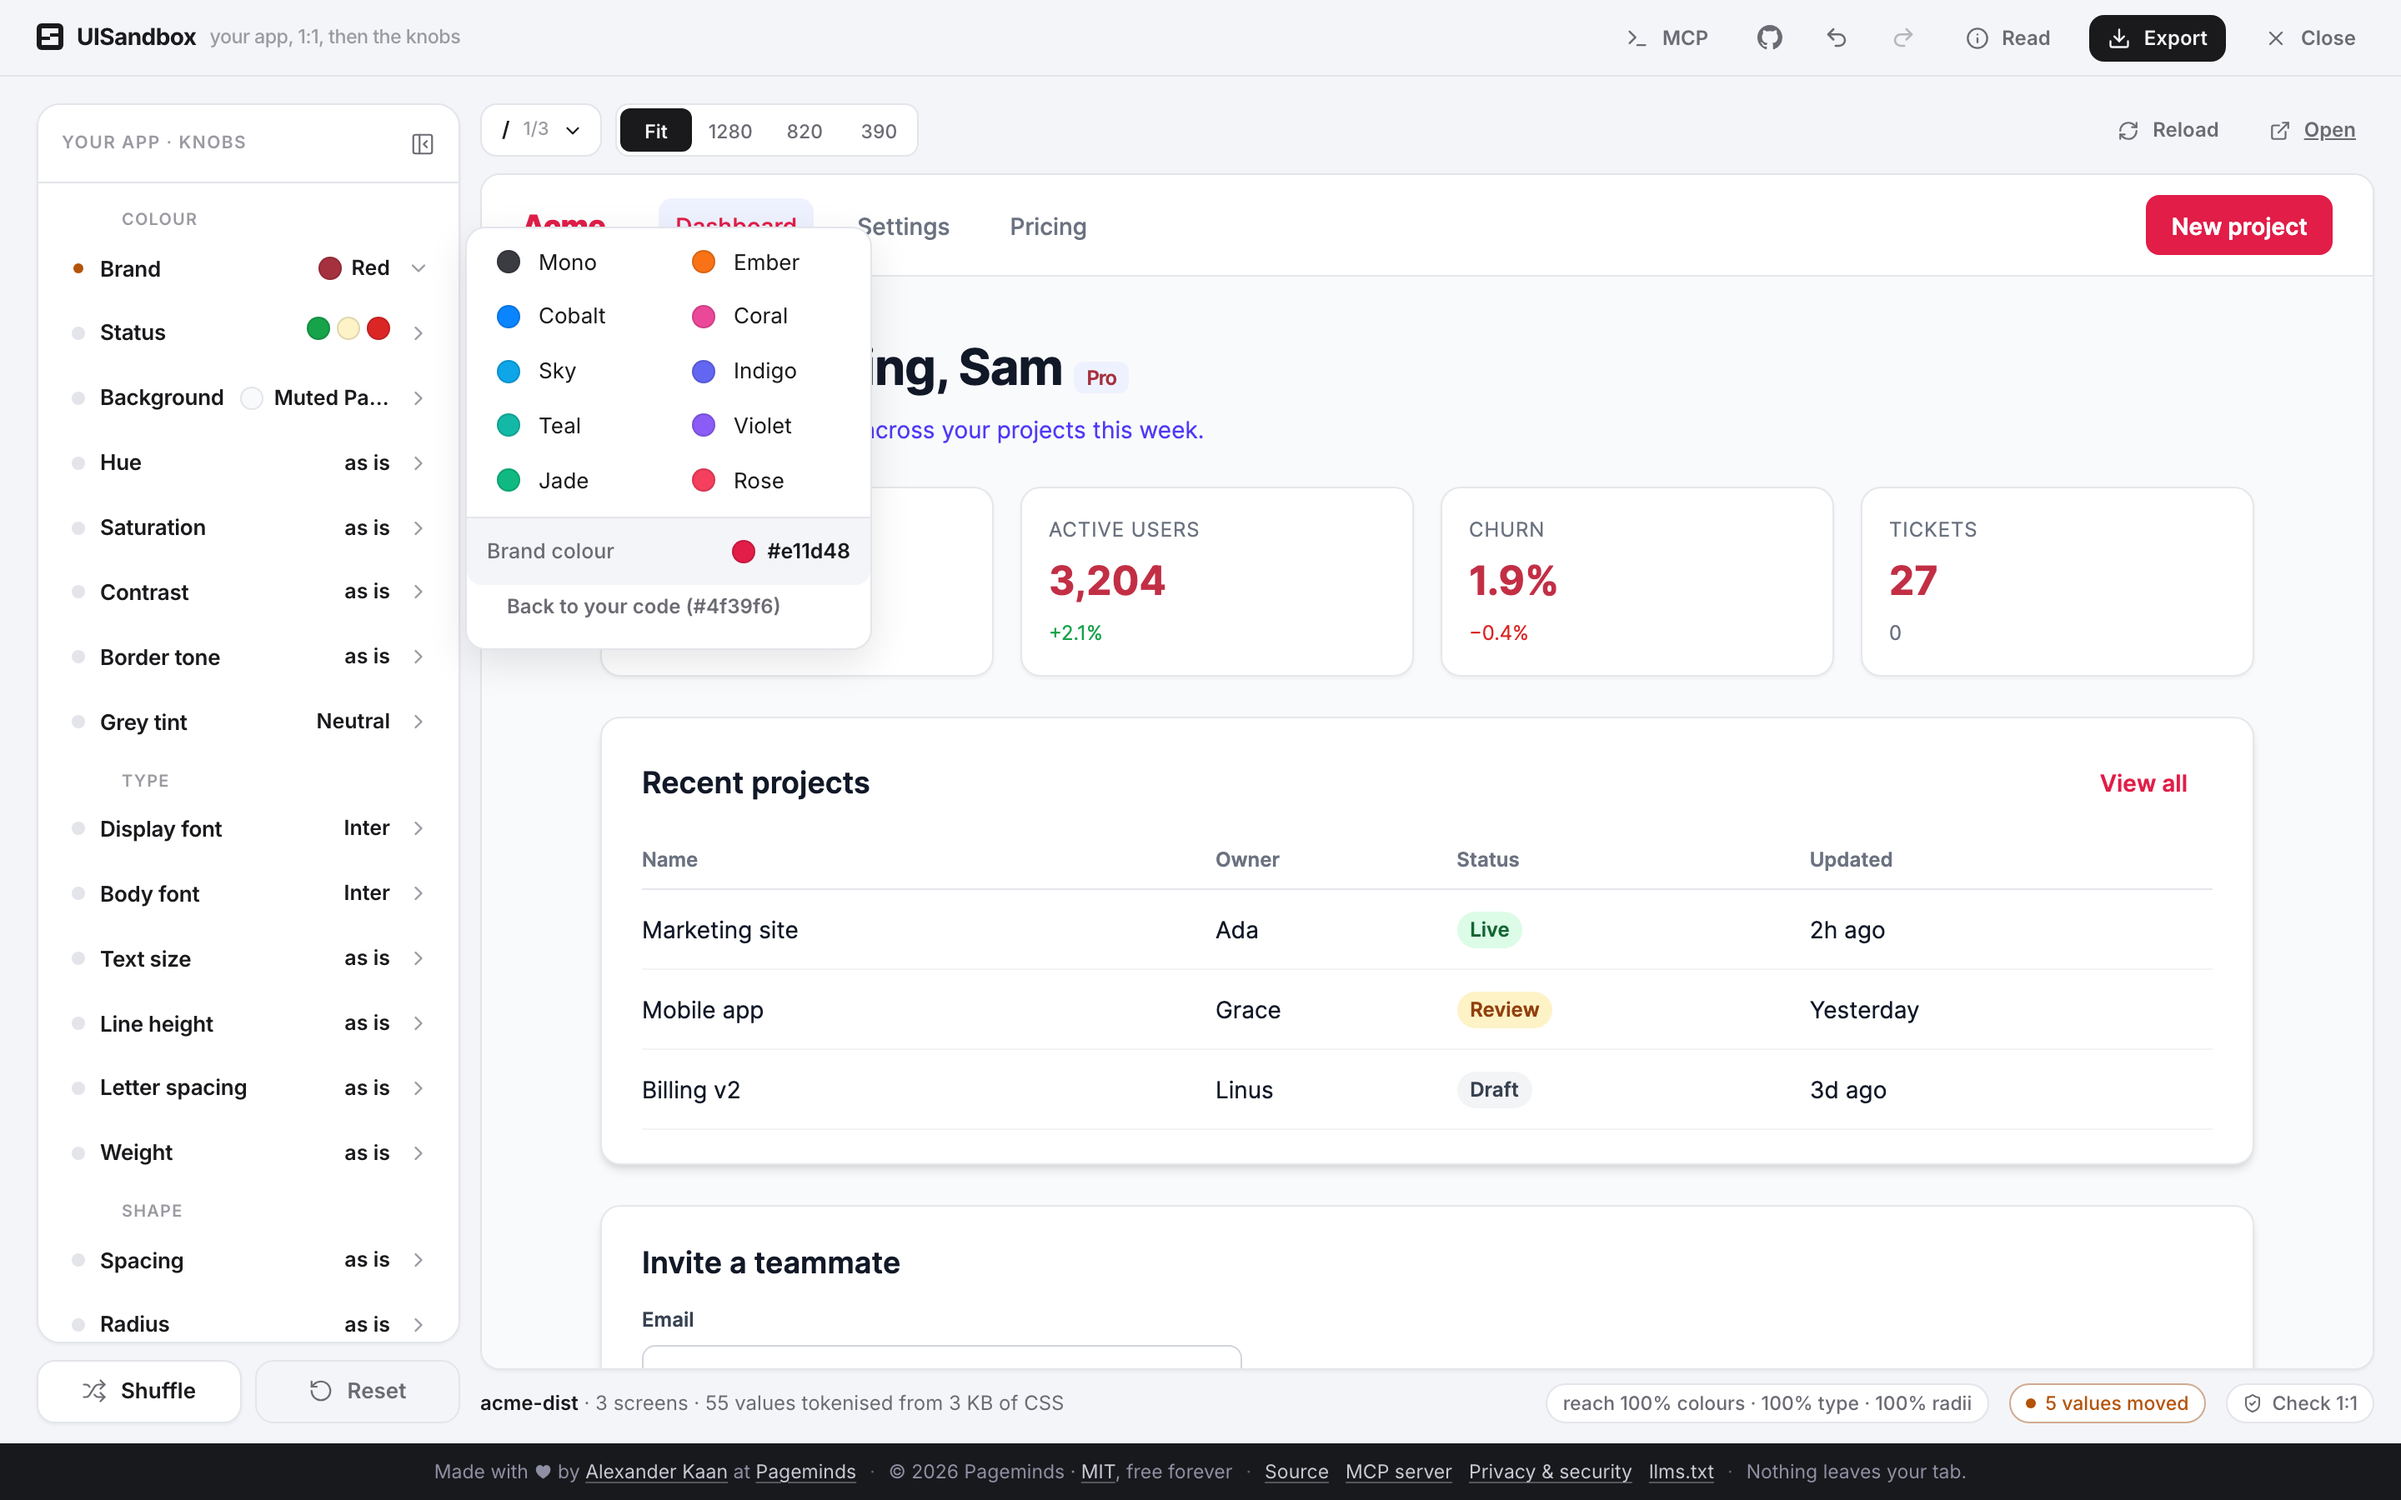
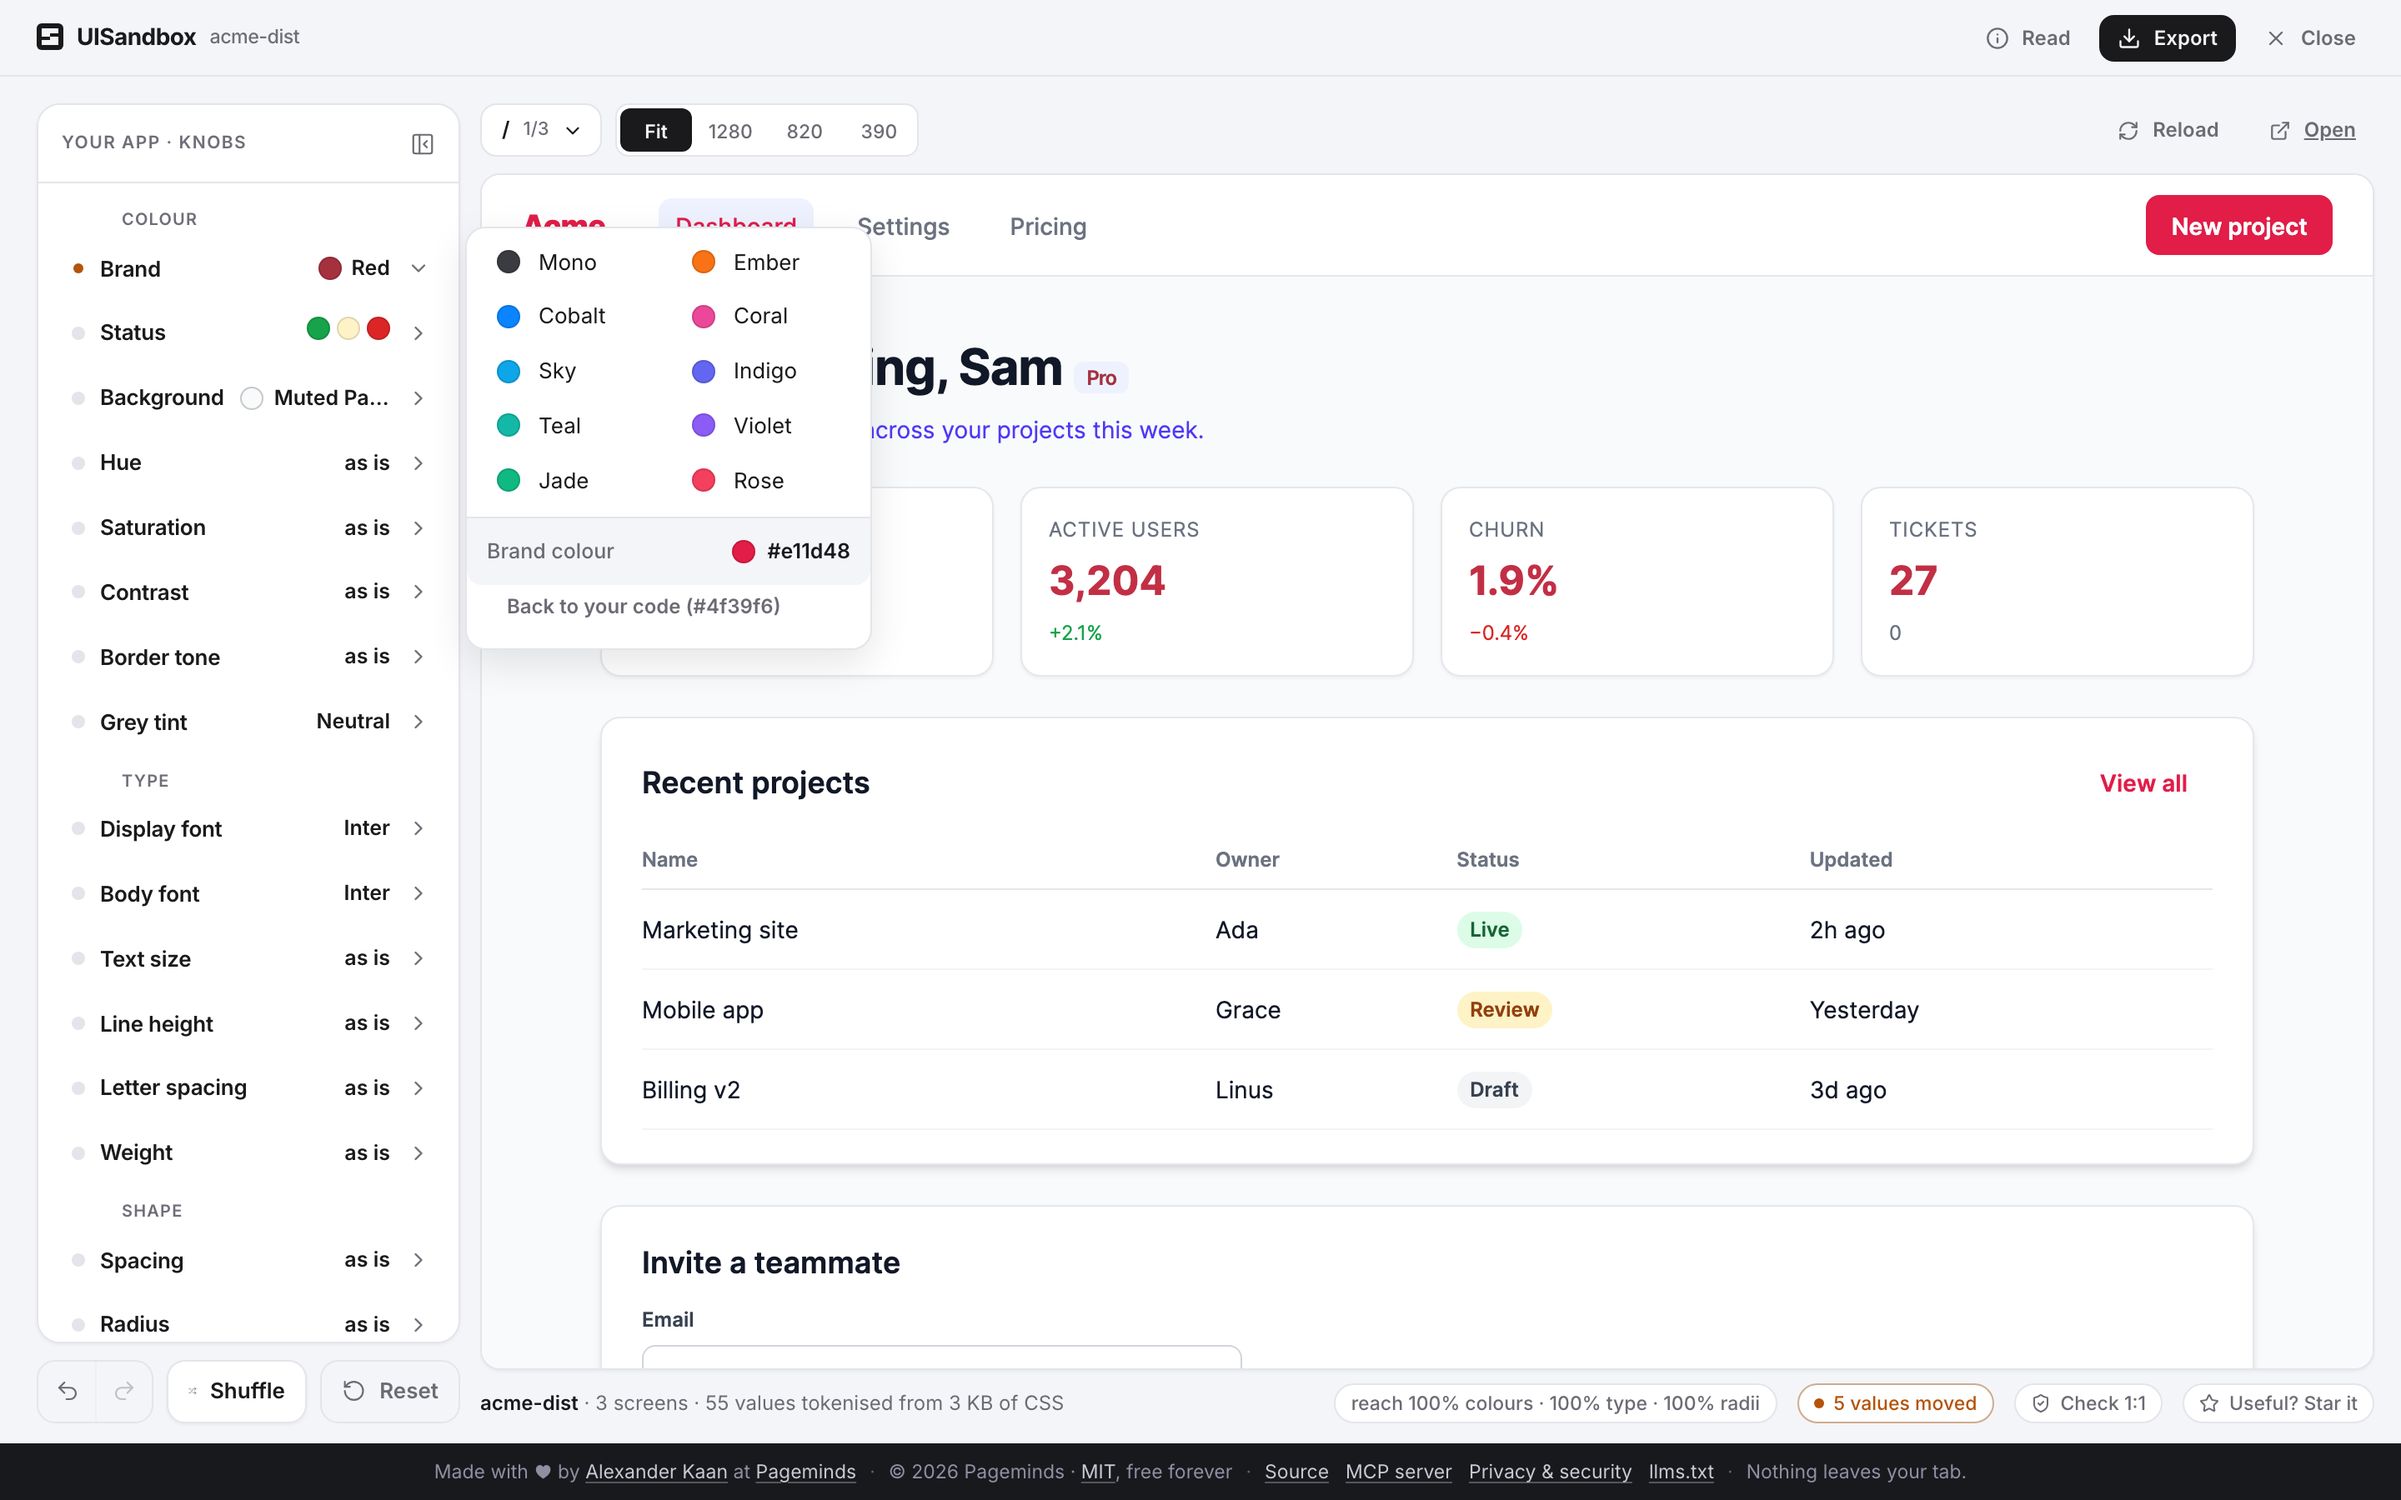
Landing pictures follow the scheme: every shot in light and dark (<picture> with a prefers-color-scheme source); cards cut tight; shots.mjs shoots both

diff --git a/src/app/Intake.tsx b/src/app/Intake.tsx
@@ -177,7 +177,7 @@ function Landing() {
         </ol>
       </section>
       <figure className="shot">
-        <img src="/shot-stage.png" alt="UISandbox: a real app in the sandbox with the knobs panel beside it; the Brand knob opened and set to crimson, the page following" loading="lazy" width="1440" height="900" />
+        <picture><source srcSet="/shot-stage-dark.png" media="(prefers-color-scheme: dark)" /><img src="/shot-stage.png" alt="UISandbox: a real app in the sandbox with the knobs panel beside it; the Brand knob opened and set to crimson, the page following" loading="lazy" width="1440" height="900" /></picture>
         <figcaption>A real build in the sandbox. Brand turned to crimson — five values moved, the page followed; <em>Back to your code</em> is one click.</figcaption>
       </figure>
       <section className="landing__sec landing__cols">
@@ -188,9 +188,9 @@ function Landing() {
           <p><b>It refuses what it cannot show.</b> iOS and Android projects, WordPress themes and source without a build get a clear message at the door; a page that asks for files the archive does not hold says so.</p>
         </div>
         <figure className="shot shot--stack" aria-label="Three things the tool says out loud">
-          <img src="/shot-verify.png" alt="The 1:1 check card: 67 elements paired, zero computed-style differences across 18 properties" loading="lazy" width="944" height="358" />
-          <img src="/shot-reach.png" alt="The reach card: of 66 visible elements, how many the knobs touch — colours, type, radii — and what lies outside" loading="lazy" width="936" height="430" />
-          <img src="/shot-refusal.png" alt="A refusal at the door: web source without a built page — build it first, then drop the output folder" loading="lazy" width="1148" height="110" />
+          <picture><source srcSet="/shot-verify-dark.png" media="(prefers-color-scheme: dark)" /><img src="/shot-verify.png" alt="The 1:1 check card: 67 elements paired, zero computed-style differences across 18 properties" loading="lazy" width="880" height="296" /></picture>
+          <picture><source srcSet="/shot-reach-dark.png" media="(prefers-color-scheme: dark)" /><img src="/shot-reach.png" alt="The reach card: of 66 visible elements, how many the knobs touch — colours, type, radii — and what lies outside" loading="lazy" width="880" height="376" /></picture>
+          <picture><source srcSet="/shot-refusal-dark.png" media="(prefers-color-scheme: dark)" /><img src="/shot-refusal.png" alt="A refusal at the door: web source without a built page — build it first, then drop the output folder" loading="lazy" width="1148" height="110" /></picture>
           <figcaption>The check, the reach meter, a refusal — each a real screenshot.</figcaption>
         </figure>
       </section>
